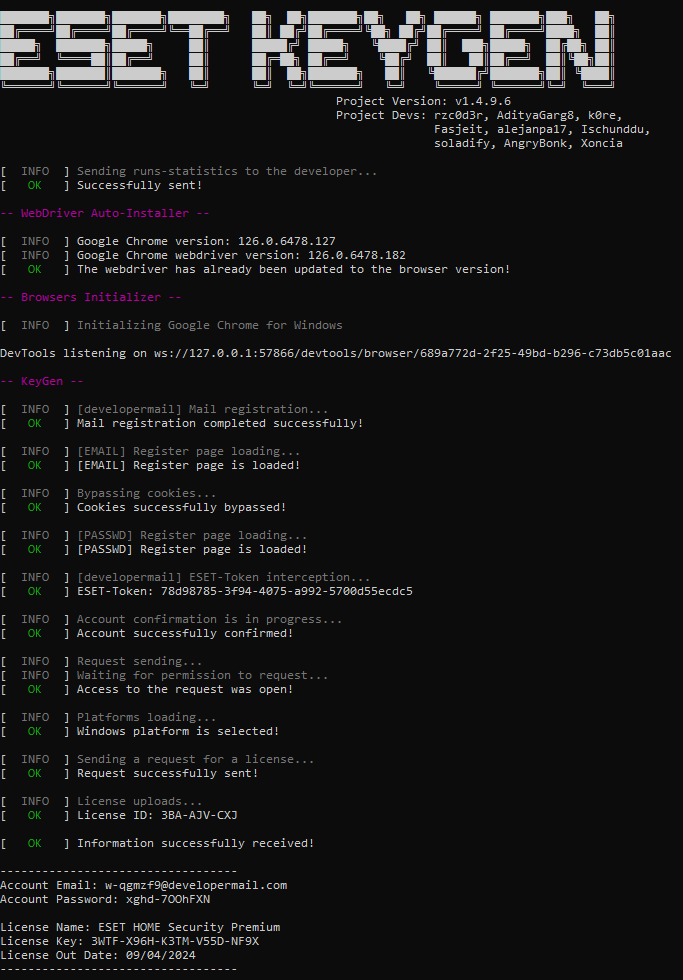
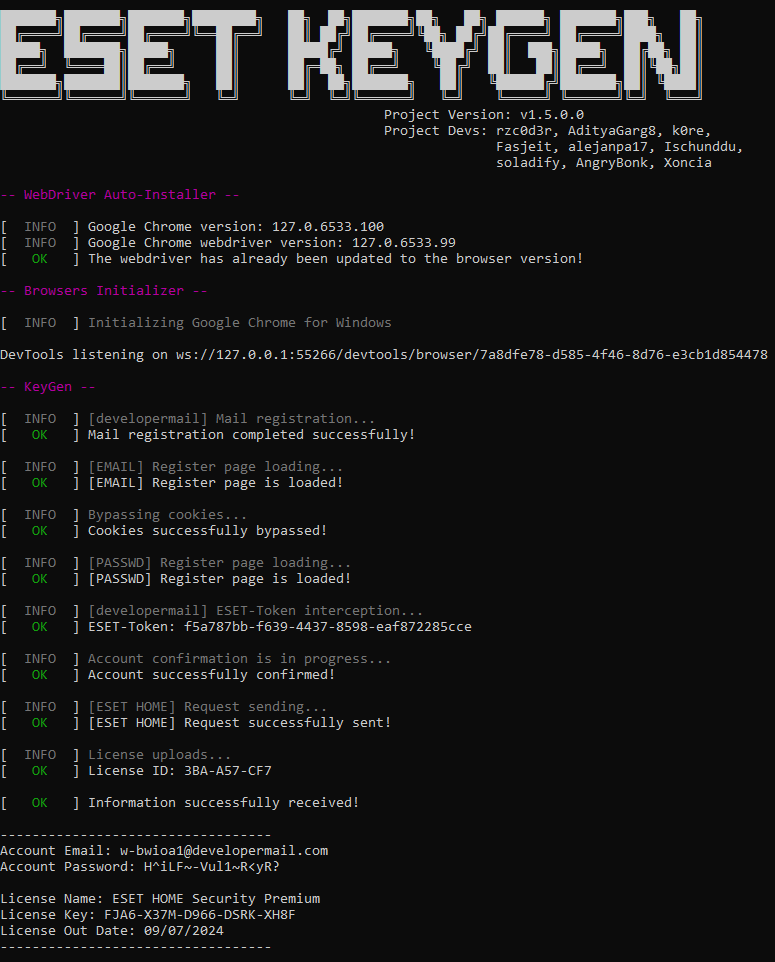
Update to v1.5.0.0
1. Disabled statistics collection completely
2. Algorithm update due to changes on the website
3. Added new command line argument: --small-business-key

Changed region(s): [[0.0, 0.1559, 1.0, 0.9979], [0.369, 0.0, 0.9531, 0.1871], [0.0, 0.0, 0.3382, 0.1247]]

diff --git a/main.py b/main.py
@@ -6,7 +6,6 @@ from modules.EsetTools import EsetKeygen as EK
 #from modules.EsetTools import EsetBusinessRegister as EBR
 #from modules.EsetTools import EsetBusinessKeygen as EBK
 
-from modules.Statistics import Statistics
 from modules.SharedTools import *
 from modules.EmailAPIs import *
 from modules.Updater import get_assets_from_version, parse_update_json, updater_main
@@ -22,7 +21,7 @@ import sys
 import os
 import re
 
-VERSION = ['v1.4.9.6', 1496]
+VERSION = ['v1.5.0.0', 1500]
 LOGO = f"""
 ███████╗███████╗███████╗████████╗   ██╗  ██╗███████╗██╗   ██╗ ██████╗ ███████╗███╗   ██╗
 ██╔════╝██╔════╝██╔════╝╚══██╔══╝   ██║ ██╔╝██╔════╝╚██╗ ██╔╝██╔════╝ ██╔════╝████╗  ██║
@@ -70,6 +69,7 @@ args = {
     'edge': False,
 
     'key': True,
+    'small-business-key': False,
     'account': False,
     'business_key': False,
     'business_account': False,
@@ -104,8 +104,7 @@ def RunMenu():
             args,
             title='Modes of operation',
             action='store_true',
-            #args_names=['key', 'account', 'business-account', 'business-key', 'only-webdriver-update', 'update'],
-            args_names=['key', 'account', 'only-webdriver-update', 'update'],
+            args_names=['key', 'small-business-key', 'account', 'business-key', 'only-webdriver-update', 'update'],
             default_value='key')
     )
     SettingMenu.add_item(
@@ -187,10 +186,9 @@ def parse_argv():
         args_browsers.add_argument('--edge', action='store_true', help='Launching the project via Microsoft Edge browser')
         ## Modes of operation
         args_modes = args_parser.add_mutually_exclusive_group(required=True)
-        args_modes.add_argument('--key', action='store_true', help='Generating an ESET-HOME license key (example as AGNV-XA2V-EA89-U546-UVJP)')
-        args_modes.add_argument('--account', action='store_true', help='Generating an ESET HOME Account (To activate the free trial version)')
-        #args_modes.add_argument('--business-account', action='store_true', help='Generating an ESET BUSINESS Account (To huge businesses) - Requires manual captcha input!!!')
-        #args_modes.add_argument('--business-key', action='store_true', help='Generating an ESET BUSINESS Account and creating a universal license key for ESET products (1 key - 75 devices) - Requires manual captcha input!!!')
+        args_modes.add_argument('--key', action='store_true', help='Creating a license key for ESET Smart Security Premium')
+        args_modes.add_argument('--account', action='store_true', help='Creating a ESET HOME Account (To activate the free trial version)')
+        args_modes.add_argument('--small-business-key', action='store_true', help='Creating a license key for ESET Small Business Security (1 key - 5 devices)')
         args_modes.add_argument('--only-webdriver-update', action='store_true', help='Updates/installs webdrivers and browsers without generating account and license key')
         args_modes.add_argument('--update', action='store_true', help='Switching to program update mode - Overrides all arguments that are available!!!')
         # Optional
@@ -210,17 +208,6 @@ def parse_argv():
             time.sleep(3)
             sys.exit(-1)
 
-def send_statistics(statisctis_object: Statistics, name, value=''):
-    # sending program {name}-statistics
-    console_log(f'Sending {name}-statistics to the developer...', INFO, True)
-    for _ in range(3):
-        if statisctis_object.send_statistics(name, value):
-            console_log('Successfully sent!\n', OK, False)
-            break
-        time.sleep(1)
-    else:
-        console_log('Sending error, skipped!\n', ERROR, False)
-
 def main():
     if len(sys.argv) == 1: # for Menu
         print()
@@ -228,10 +215,6 @@ def main():
         # disabling the ability to use business generation (since that method is dead)
         args['business_key'] = False
         args['business_account'] = False
-        # sending program runs-statistics
-        if not args['update']:
-            st = Statistics()
-            send_statistics(st, 'runs')
         # check program updates
         if args['update']:
             print(f'{Fore.LIGHTMAGENTA_EX}-- Updater --{Fore.RESET}\n')
@@ -310,7 +293,7 @@ def main():
         eset_password = dataGenerator(10)
         
         # standart generator
-        if args['account'] or args['key']:
+        if args['account'] or args['key'] or args['small_business_key']:
             ER_obj = ER(email_obj, eset_password, driver)
             ER_obj.createAccount()
             ER_obj.confirmAccount()
@@ -323,9 +306,9 @@ def main():
                     ''
             ])        
             output_filename = 'ESET ACCOUNTS.txt'
-            if args['key']:
+            if args['key'] or args['small_business_key']:
                 output_filename = 'ESET KEYS.txt'
-                EK_obj = EK(email_obj, driver)
+                EK_obj = EK(email_obj, driver, 'ESET HOME' if args['key'] else 'SMALL BUSINESS')
                 EK_obj.sendRequestForKey()
                 license_name, license_key, license_out_date = EK_obj.getLicenseData()
                 output_line = '\n'.join([
@@ -341,7 +324,7 @@ def main():
                     ''
                 ])
                 
-        """# new generator
+        """# business generator
         elif args['business_account'] or args['business_key']:
             EBR_obj = EBR(email_obj, eset_password, driver)
             EBR_obj.createAccount()
@@ -379,9 +362,6 @@ def main():
         f = open(f"{str(date.day)}.{str(date.month)}.{str(date.year)} - "+output_filename, 'a')
         f.write(output_line)
         f.close()
-        # sending program gens-statistics
-        #st = Statistics()
-        #send_statistics(st, 'gens')
     
     except Exception as E:
         traceback_string = traceback.format_exc()

diff --git a/modules/EsetTools.py b/modules/EsetTools.py
@@ -82,68 +82,39 @@ class EsetRegister(object):
         return self.driver
 
 class EsetKeygen(object):
-    def __init__(self, registered_email_obj: OneSecEmailAPI, driver: Chrome):
+    def __init__(self, registered_email_obj: OneSecEmailAPI, driver: Chrome, mode='ESET HOME'):
         self.email_obj = registered_email_obj
         self.driver = driver
-
+        self.mode = mode.upper()
+        if self.mode not in ['ESET HOME', 'SMALL BUSINESS']:
+            raise RuntimeError('Undefined keygen mode!')
+        
     def sendRequestForKey(self):
         exec_js = self.driver.execute_script
         uCE = untilConditionExecute
         
-        console_log('\nRequest sending...', INFO)
-        self.driver.get('https://home.eset.com/subscriptions')
-        uCE(self.driver, f"return {CLICK_WITH_BOOL}({GET_EBAV}('button', 'data-label', 'licenseAssociateHeaderAddNewBtn'))") # V2
-        
-        console_log('Waiting for permission to request...', INFO)
-        uCE(self.driver, f"return {CLICK_WITH_BOOL}({GET_EBAV}('button', 'data-label', 'license-fork-slide-trial-license-card-button'))")
+        console_log(f'\n[{self.mode}] Request sending...', INFO)
+        self.driver.get('https://home.eset.com/subscriptions/choose-trial')
+        uCE(self.driver, f"return {GET_EBAV}('button', 'data-label', 'subscription-choose-trial-ehsp-card-button') != null")
+        if self.mode == 'ESET HOME':
+            uCE(self.driver, f"return {CLICK_WITH_BOOL}({GET_EBAV}('button', 'data-label', 'subscription-choose-trial-ehsp-card-button'))")
+        elif self.mode == 'SMALL BUSINESS':
+            uCE(self.driver, f"return {CLICK_WITH_BOOL}({GET_EBAV}('button', 'data-label', 'subscription-choose-trial-esbs-card-button'))")
         try:
-            uCE(self.driver, f"return {CLICK_WITH_BOOL}({GET_EBAV}('button', 'data-label', 'license-fork-slide-continue-button'))")
-            console_log('Access to the request was open!', OK)
+            exec_js(f'{GET_EBCN}("css-17v7x12")[0].click()')
+            uCE(self.driver, f"return {CLICK_WITH_BOOL}({GET_EBAV}('button', 'data-label', 'subscription-choose-trial-esbs-card-button'))")
+            exec_js(f'{GET_EBCN}("css-17v7x12")[0].click()')
+            console_log(f'[{self.mode}] Request successfully sent!', OK)
         except:
-            raise RuntimeError('Access to the request is denied, try again later!')
-        console_log('\nPlatforms loading...', INFO)
-        uCE(self.driver, f"return {CLICK_WITH_BOOL}({GET_EBAV}('button', 'data-label', 'device-protect-os-card-Windows-button'))")
-        console_log('Windows platform is selected!', OK)
-        uCE(self.driver, f"return {CLICK_WITH_BOOL}({GET_EBAV}('button', 'data-label', 'device-protect-choose-platform-continue-btn'))")
-
-        console_log('\nSending a request for a license...', INFO)
-        uCE(self.driver, f"return typeof {GET_EBID}('email') === 'object'")
-        try: # fix for ElementNotInteractableException: X is not reachable by keyboard
-            exec_js(f"return {GET_EBID}('email').click()")
-            exec_js(f"return {GET_EBID}('email')").click()
-        except:
-            pass
-        exec_js(f"return {GET_EBID}('email')").send_keys(self.email_obj.email)
-        exec_js(f"return {GET_EBAV}('button', 'data-label', 'device-protect-get-installer-send-email-btn')").click()
-        for _ in range(DEFAULT_MAX_ITER):
-            time.sleep(0.7)
-            try:
-                btn = exec_js(f"return {GET_EBAV}('button', 'data-label', 'device-protect-get-installer-send-email-btn')")
-                if btn.text.lower() == 'send email':
-                    console_log('Request successfully sent!', OK)
-                    return True
-            except:
-                pass
-        raise RuntimeError('Request sending error!!!')
+            raise RuntimeError('Request sending error!!!')
 
     def getLicenseData(self):
         exec_js = self.driver.execute_script
         uCE = untilConditionExecute
         console_log('\nLicense uploads...', INFO)
-        if platform.release() == '7' and sys.platform.startswith('win'): # old browser versions
-            for _ in range(DEFAULT_MAX_ITER):
-                self.driver.get('https://home.eset.com/subscriptions') # refresh page
-                try:
-                    exec_js(f"{DEFINE_GET_EBAV_FUNCTION}\n{GET_EBAV}('button', 'data-label', 'license-list-open-detail-page-btn').click()")
-                    break
-                except:
-                    time.sleep(3)
-        else: # new browser versions
-            self.driver.get('https://home.eset.com/subscriptions')
-            uCE(self.driver, f"return {CLICK_WITH_BOOL}({GET_EBAV}('button', 'data-label', 'license-list-open-detail-page-btn'))")
+        uCE(self.driver, f"return typeof {GET_EBAV}('div', 'class', 'LicenseDetailInfo') === 'object'")
         if self.driver.current_url.find('detail') != -1:
             console_log(f'License ID: {self.driver.current_url[-11:]}', OK)
-        uCE(self.driver, f"return typeof {GET_EBAV}('div', 'class', 'LicenseDetailInfo') === 'object'")
         license_name = exec_js(f"return {GET_EBAV}('div', 'data-r', 'license-detail-product-name').innerText")
         license_out_date = exec_js(f"return {GET_EBAV}('div', 'data-r', 'license-detail-license-model-additional-info').innerText")
         license_key = exec_js(f"return {GET_EBAV}('div', 'data-r', 'license-detail-license-key').innerText")

diff --git a/wiki/KeyGenerator.md b/wiki/KeyGenerator.md
@@ -14,7 +14,7 @@
   python main.py --chrome --key
   ```
   ```
-  ESET-KeyGen_v1.4.9.6_win64.exe --chrome --key
+  ESET-KeyGen_v1.5.0.0_win64.exe --chrome --key
   ```
   > File name is unique for each version! Do not copy the above command. This is an example!
 
@@ -22,6 +22,24 @@
   > This information will also be written to a file named "Today date - ESET ACCOUNTS.txt"
 
   ![Windows](https://github.com/rzc0d3r/ESET-KeyGen/blob/main/img/key_run_win.png)
+</details>
+
+<details>
+  <summary>ESET Small Business Security</summary>
+  
+  1. Run main.py or executable file or use [MBCI](https://github.com/rzc0d3r/ESET-KeyGen/blob/main/wiki/MBCI-Inferface.md):
+  ```
+  python main.py --chrome --small-business-key
+  ```
+  ```
+  ESET-KeyGen_v1.5.0.0_win64.exe --chrome --small-business-key
+  ```
+  > File name is unique for each version! Do not copy the above command. This is an example!
+
+  2. Wait until you will see the account data
+  > This information will also be written to a file named "Today date - ESET ACCOUNTS.txt"
+
+  ![Windows](https://github.com/rzc0d3r/ESET-KeyGen/blob/main/img/small_business_key_run_win.png)
 </details>
 
 <details>
@@ -49,14 +67,25 @@
 ## 2. Generation using your email provider
 
 <details>
-  <summary>ESET HOME Security Premium</summary>
+  <summary>ESET HOME Security Premium | ESET Small Business Security</summary>
   
+  #### ESET HOME Security Premium
   1. Run main.py or executable file use [MBCI](https://github.com/rzc0d3r/ESET-KeyGen/blob/main/wiki/MBCI-Inferface.md):
   ```
   python main.py --chrome --key --custom-email-api
   ```
   ```
-  ESET-KeyGen_v1.4.9.6_win64.exe --chrome --key --custom-email-api
+  ESET-KeyGen_v1.5.0.0_win64.exe --chrome --key --custom-email-api
+  ```
+  > File name is unique for each version! Do not copy the above command. This is an example!
+
+  #### ESET Small Business Security
+  1. Run main.py or executable file use [MBCI](https://github.com/rzc0d3r/ESET-KeyGen/blob/main/wiki/MBCI-Inferface.md):
+  ```
+  python main.py --chrome --small-business-key --custom-email-api
+  ```
+  ```
+  ESET-KeyGen_v1.5.0.0_win64.exe --chrome --small-business-key --custom-email-api
   ```
   > File name is unique for each version! Do not copy the above command. This is an example!
 
@@ -76,7 +105,11 @@
   4. Wait until appears you will see the license key 
   > This information will also be written to a file named "Today date - ESET KEYS.txt"
 
+  #### ESET HOME Security Premium
   ![Windows](https://github.com/rzc0d3r/ESET-KeyGen/blob/main/img/key_run_win_custom_email_api.png)
+
+  #### ESET Small Business Security
+  ![Windows](https://github.com/rzc0d3r/ESET-KeyGen/blob/main/img/small_business_key_run_win_custom_email_api.png)
 </details>
 
 <details>

diff --git a/wiki/CommandLineArguments.md b/wiki/CommandLineArguments.md
@@ -16,10 +16,11 @@
 
 | Argument Command      |                                           Description                                                      |
 | --------------------- | ---------------------------------------------------------------------------------------------------------- |
-| --key | Generating an ESET-HOME license key (example as AGNV-XA2V-EA89-U546-UVJP) |
-| --account             | Generating an ESET HOME Account (To activate the free trial version)                              |
-| --only-webdriver-update         | Updates/installs webdrivers and browsers without generating accounts and license keys |
-| --update         | Switching to program update mode - **Overrides all arguments that are available** |
+| --key | Creating a license key for ESET Smart Security Premium                                                                     |
+| --account             | Generating an ESET HOME Account (To activate the free trial version)                                       |
+| --small-business-key  | Creating a license key for ESET Small Business Security (1 key - 5 devices)                                |
+| --only-webdriver-update | Updates/installs webdrivers and browsers without generating accounts and license keys                    |
+| --update         | Switching to program update mode - **Overrides all arguments that are available**                               |
 --------------------------------------------------------------------------------------------------------------------------------------
 
 # Optional

diff --git a/wiki/AccountGenerator.md b/wiki/AccountGenerator.md
@@ -14,7 +14,7 @@
   python main.py --chrome --account
   ```
   ```
-  ESET-KeyGen_v1.4.9.6_win64.exe --chrome --account
+  ESET-KeyGen_v1.5.0.0_win64.exe --chrome --account
   ```
   > File name is unique for each version! Do not copy the above command. This is an example!
 
